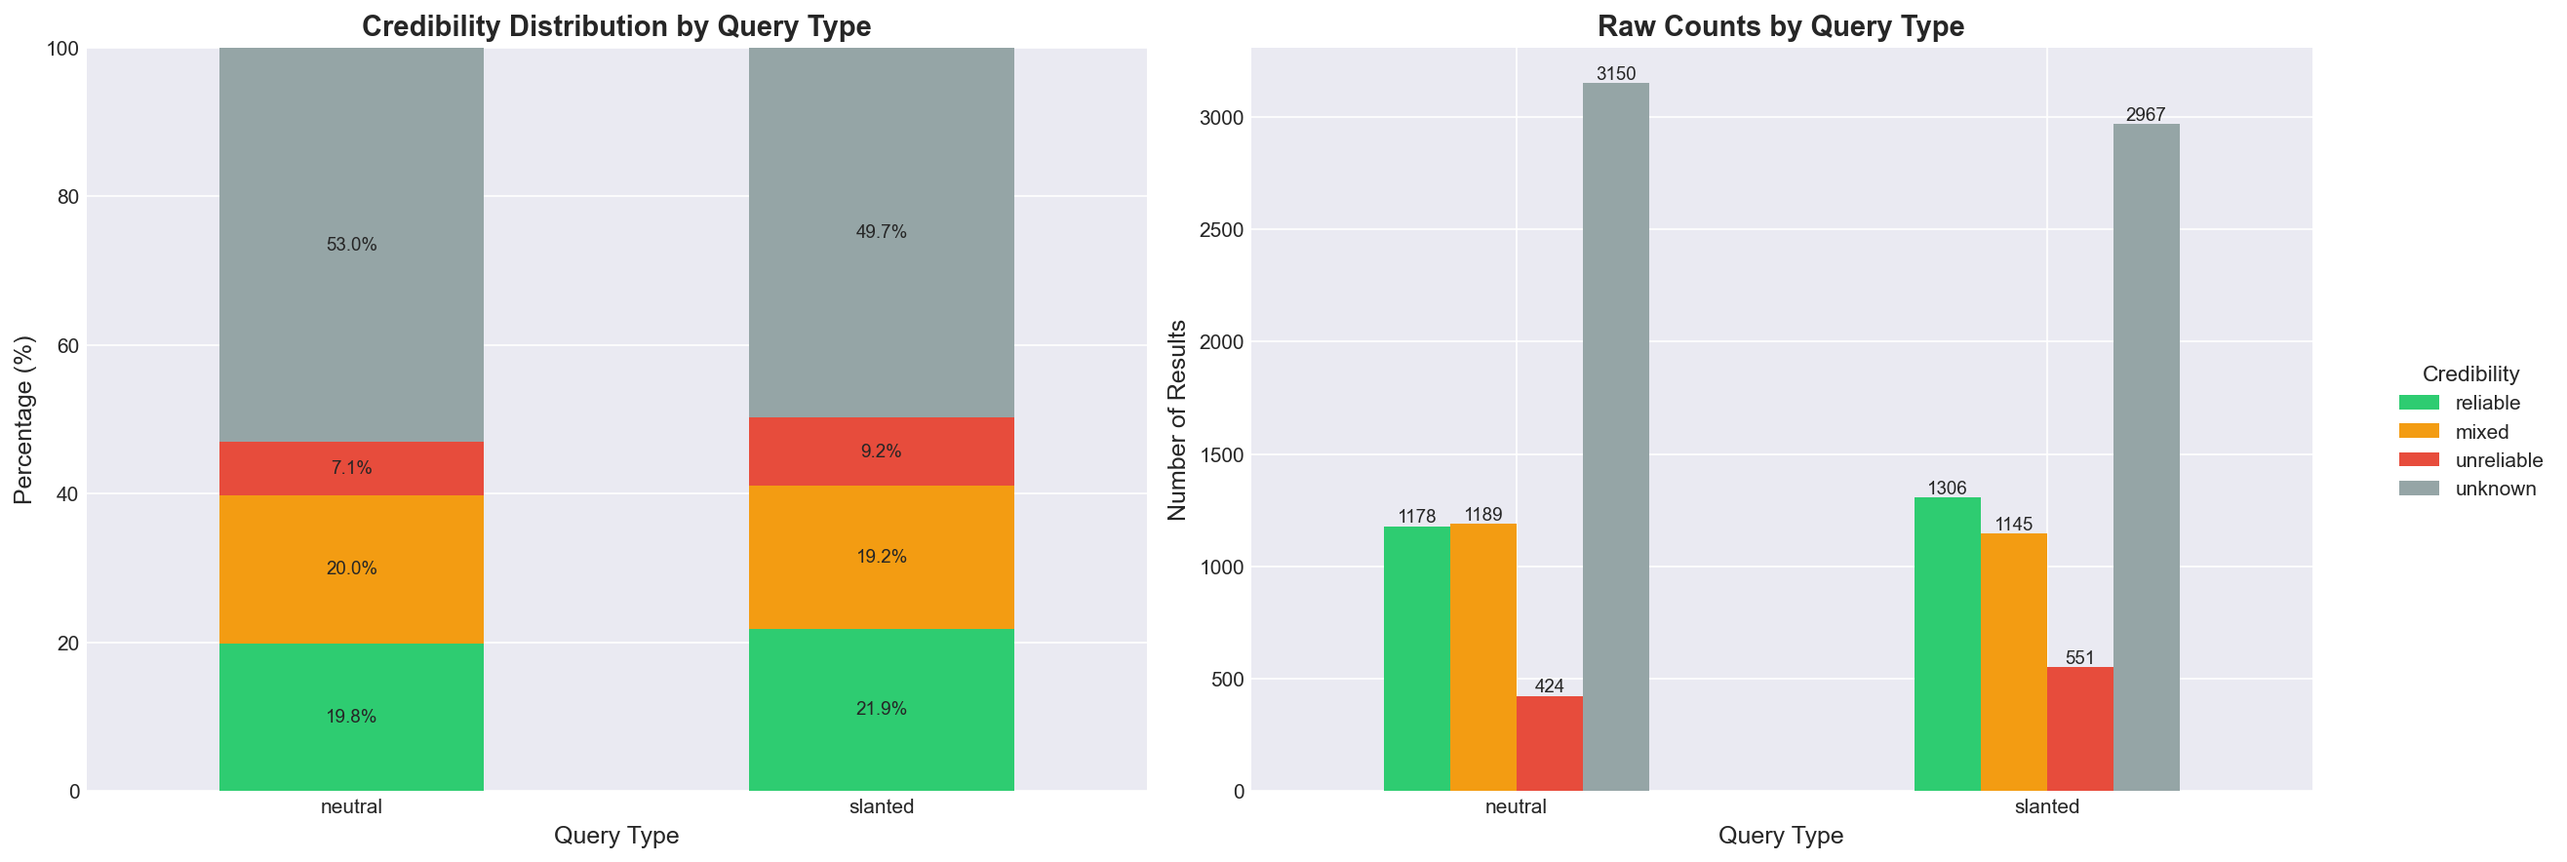
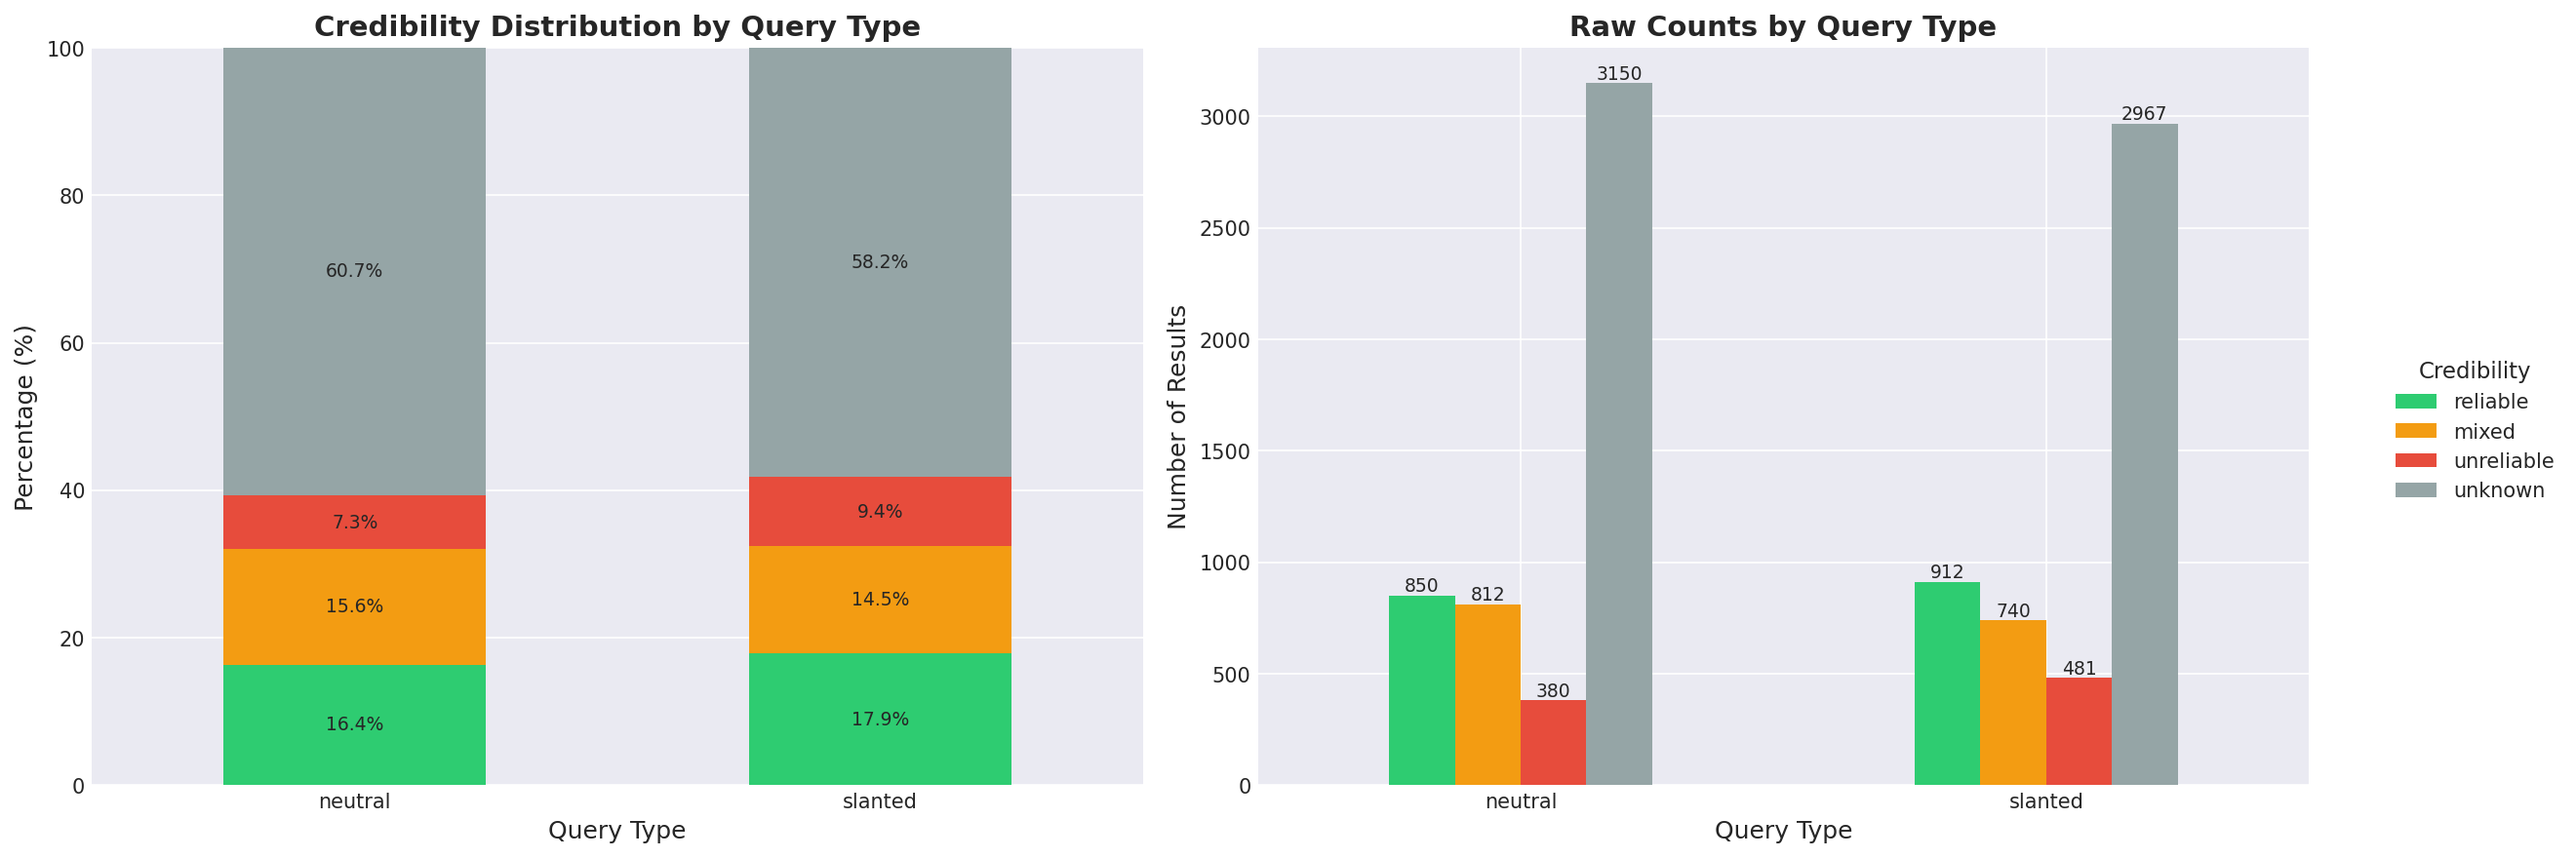
Deduplicated in data_analysis

diff --git a/src/data_analysis.py b/src/data_analysis.py
@@ -25,6 +25,8 @@ classified = pd.concat([
     mixed.assign(credibility="mixed")
 ])
 
+classified = classified.drop_duplicates(subset=['url'], keep='first')
+
 print(f"Classified {len(classified)} out of {len(df_raw)} results")
 print(f"  Reliable: {len(reliable)}")
 print(f"  Unreliable: {len(unreliable)}")
